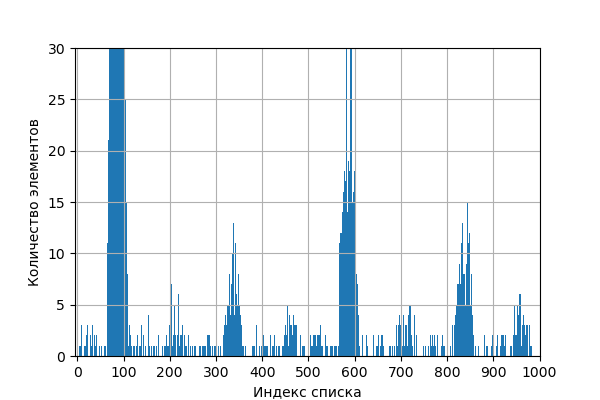
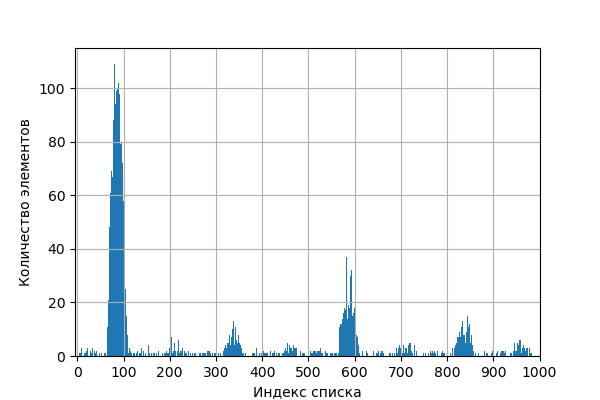
Draw all bars

diff --git a/src/make_bar.py b/src/make_bar.py
@@ -31,7 +31,7 @@ y_size = 30
 
 file_names = [ "const", "first_ascii", "len_word", "sum_ascii", "sum_ascii_5000", "rol",  "ror",  "bkdr", "crc32" ]
 x_sizes    = [ 200,     200,           200,        x_size,      5000,             x_size, x_size, x_size, x_size    ]
-y_sizes    = [ 6000,    1000,          1000,       y_size,      y_size,           y_size, y_size, y_size, y_size    ]
+y_sizes    = [ 6000,    1000,          1000,       y_size,      y_size,           y_size, 115,    y_size, y_size    ]
 
 for i in range( len( file_names ) ):
     DrawBar( file_names[i], x_sizes[i], y_sizes[i] )
